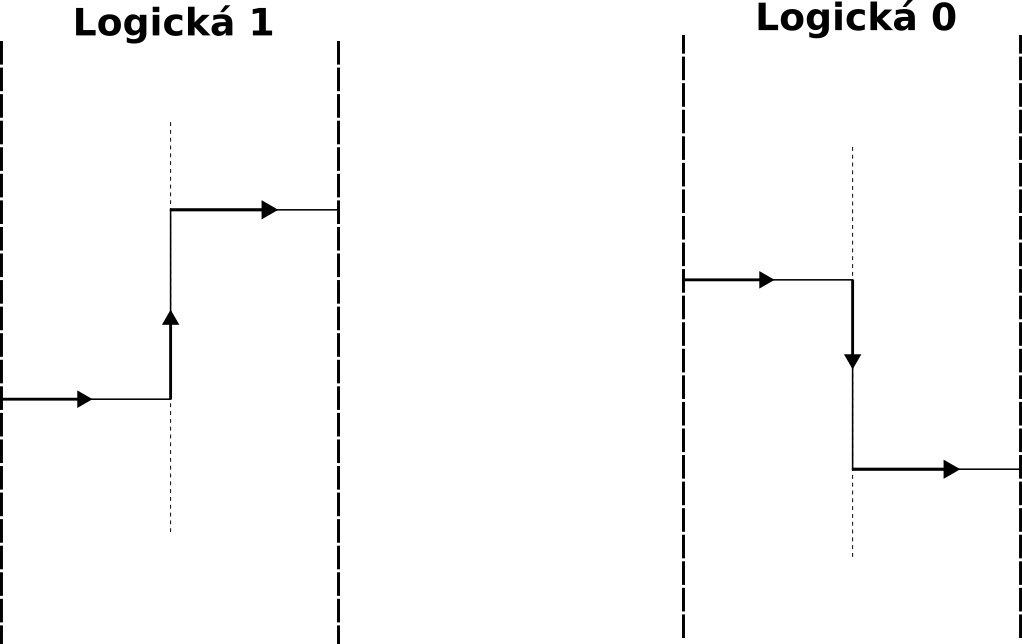
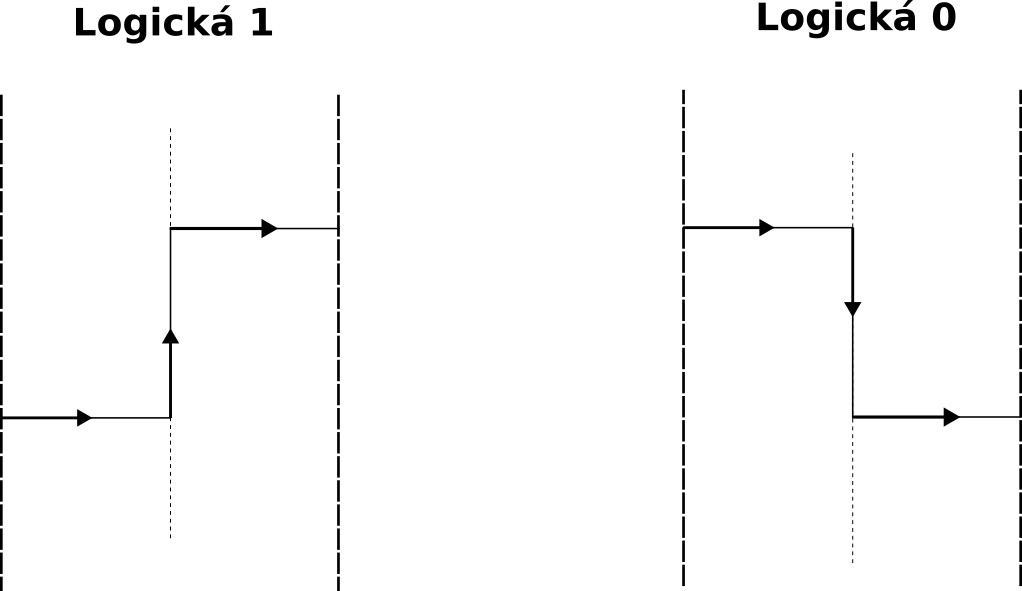
paket

diff --git a/01_Teorie/050_DALI.tex b/01_Teorie/050_DALI.tex
@@ -253,7 +253,10 @@ Datový rámec obsahuje:
 * {\sbf Stop bit:}
 \enditems
 
-
+\medskip \clabel[paket]{Datový paket}
+\picw=12cm \cinspic 03_Obrazky/paket.png
+\caption/f Datový rámec
+\medskip
 %  ############################################################################################################
 \sec Typy datových paketů
 
@@ -294,8 +297,6 @@ Datový paket {\sbf 32 bitů}:
  * tento datový rámec slouží k aktualizaci firmwaru řídících jednotek a~předřadníků,
  * norma IEC 62386-105\cite[iec105].
 \enditems
-
-
 
 %  ############################################################################################################
 \sec Adresy, skupiny a~scény
